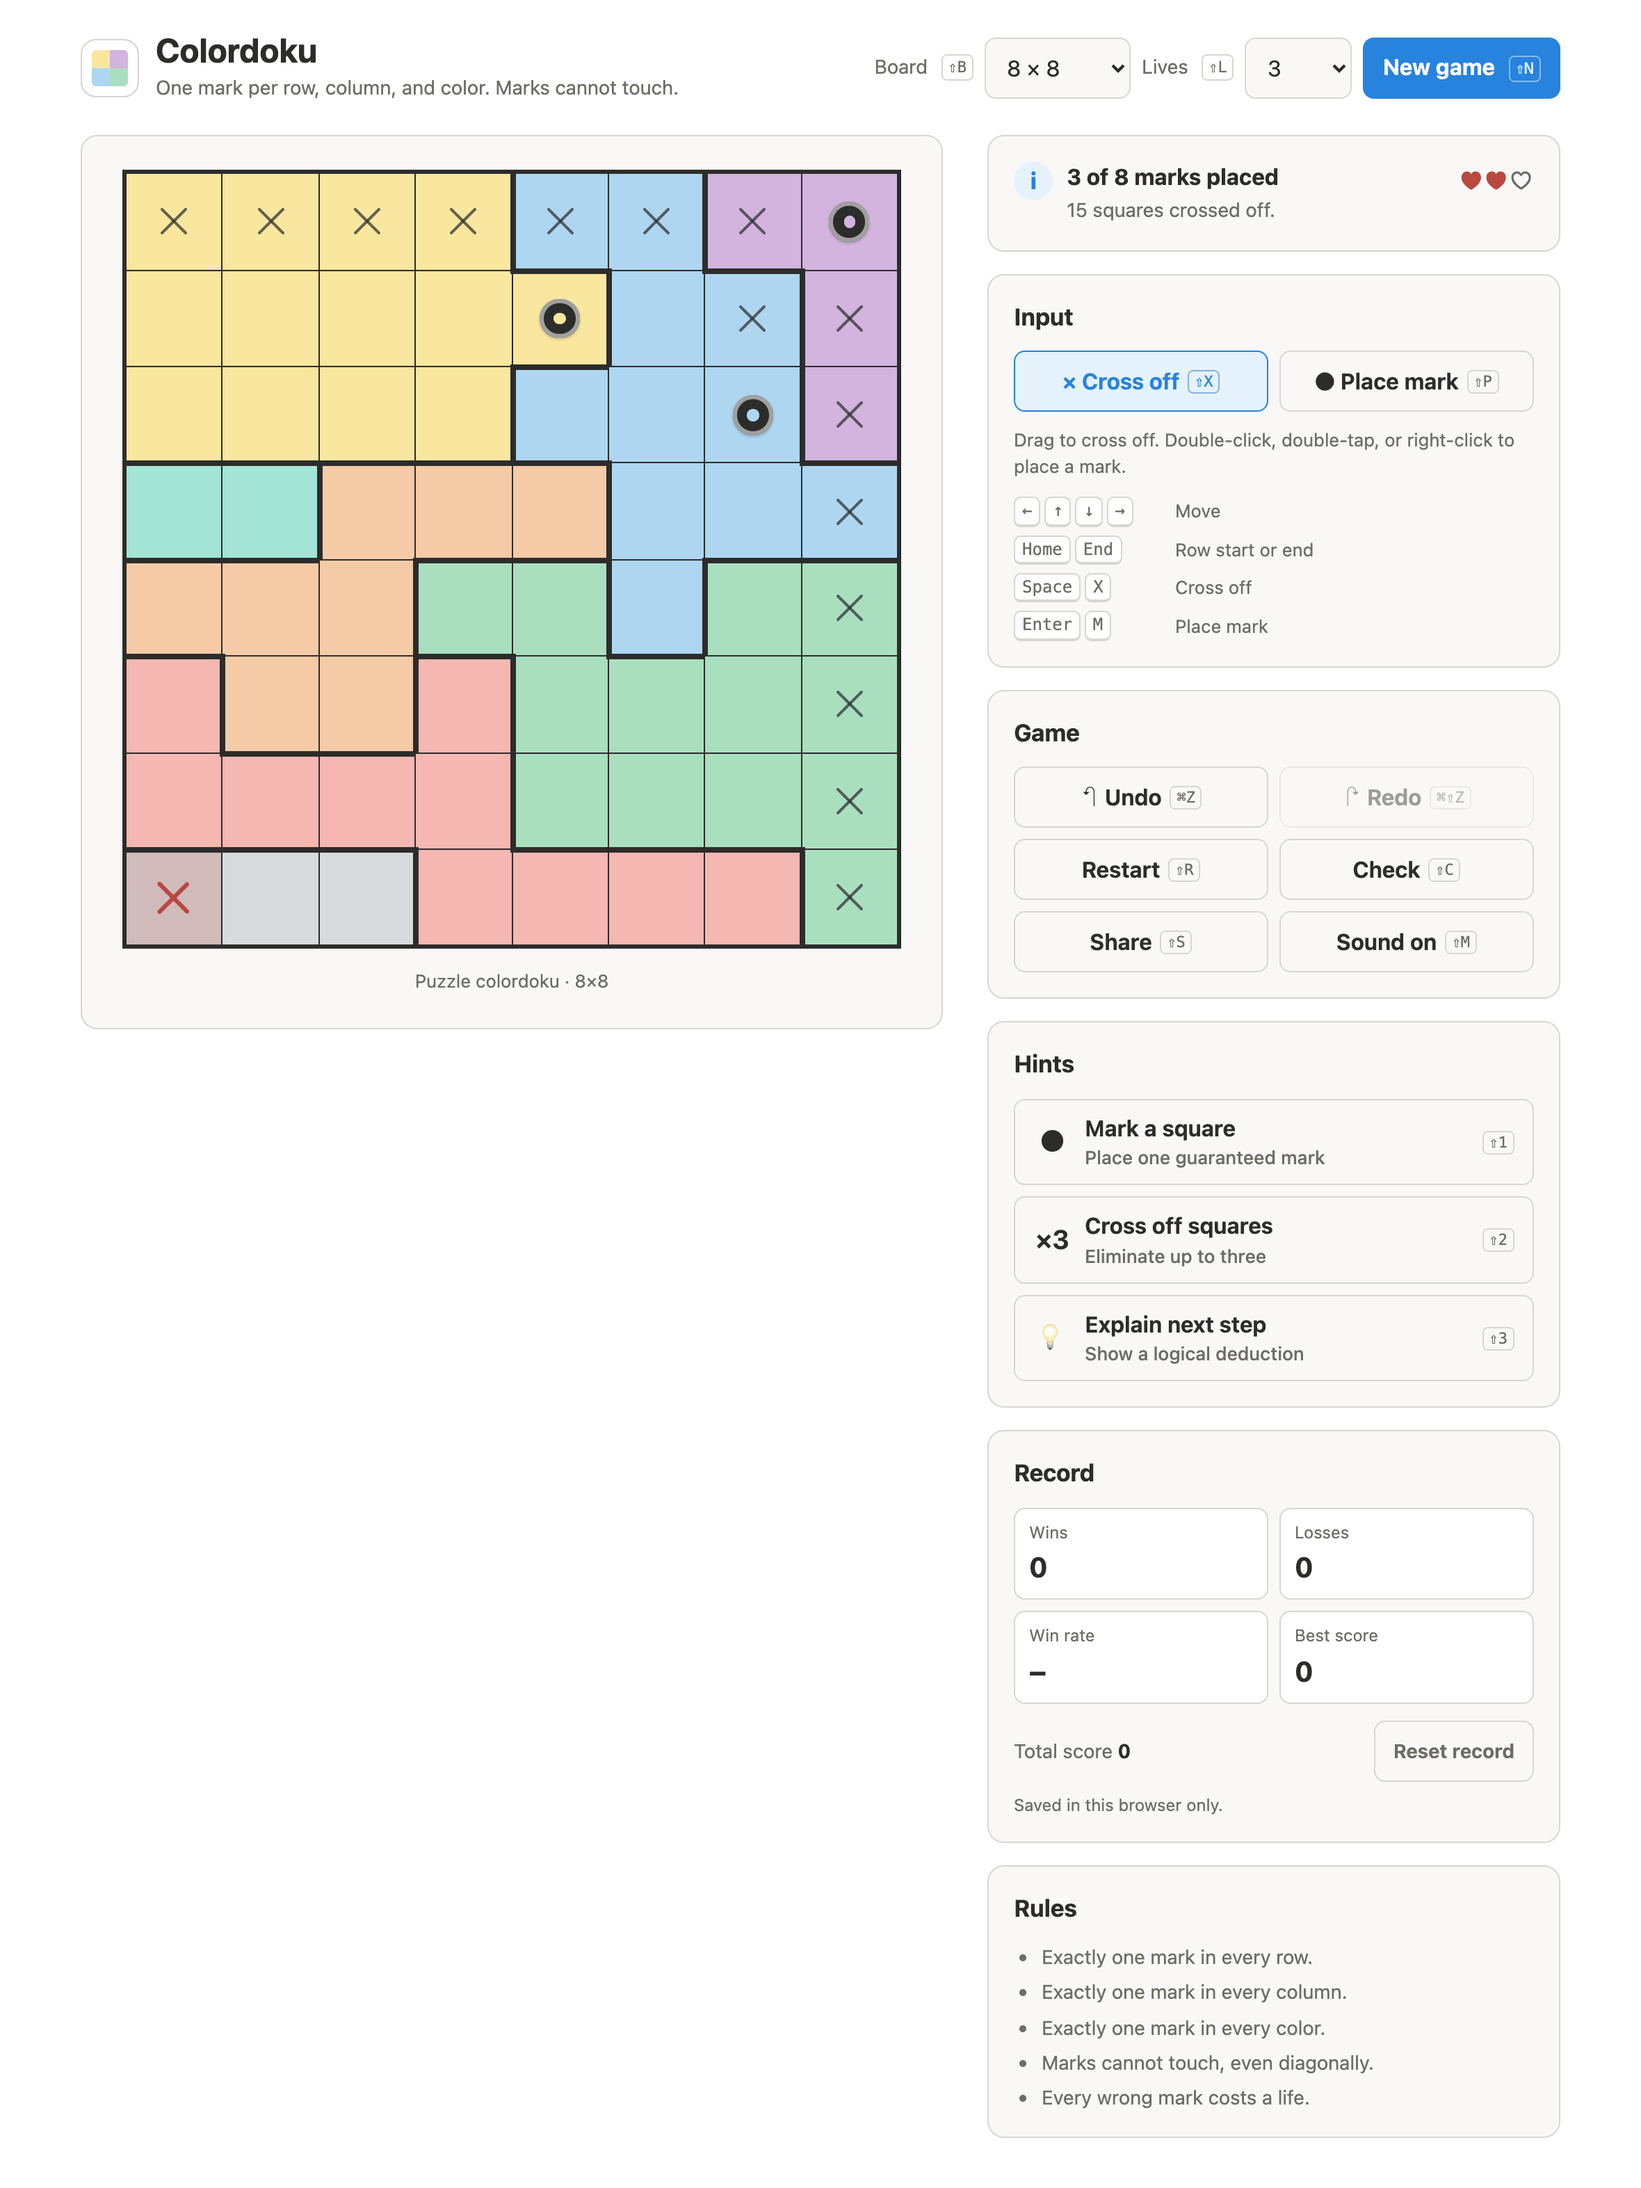
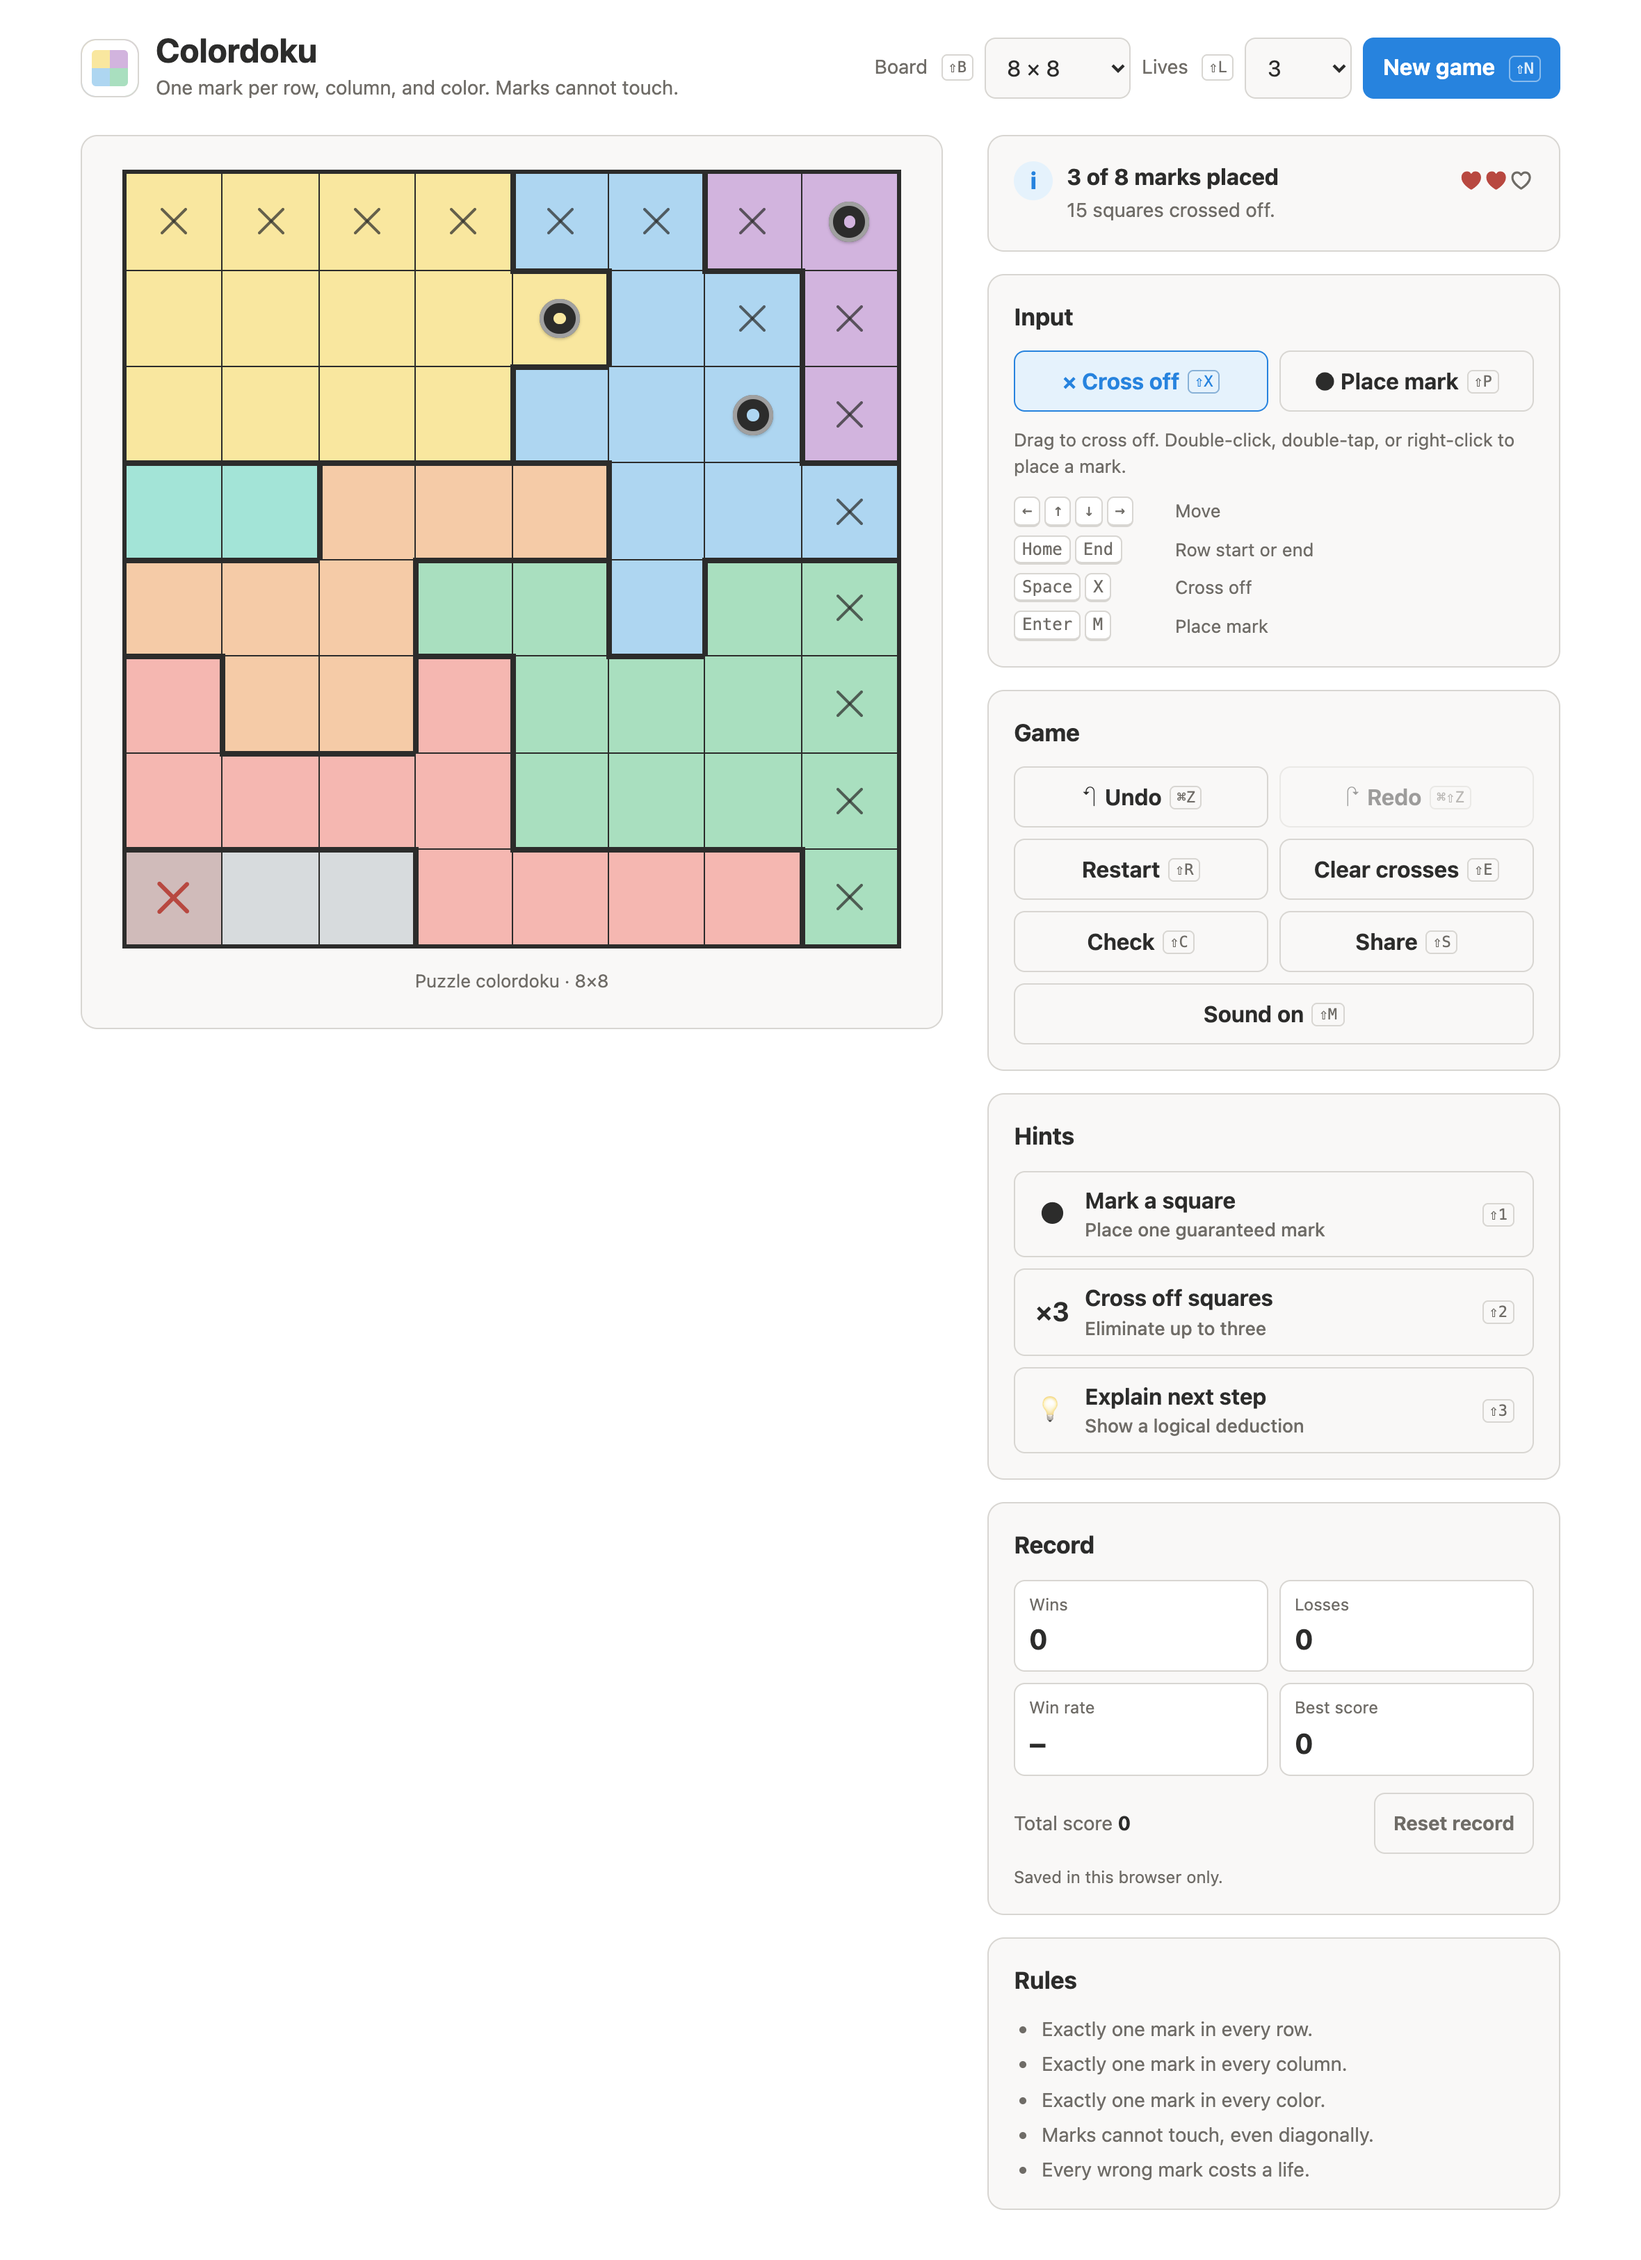
Add Clear crosses to wipe every cross-off and keep marks

diff --git a/site/js/main.js b/site/js/main.js
@@ -12,7 +12,7 @@ import {
   scoreFor,
   startAttempt,
 } from './game/attempt.js';
-import { emptyState, sameState, setCrossed } from './game/game.js';
+import { clearCrosses, emptyState, sameState, setCrossed } from './game/game.js';
 import { generatePuzzle } from './game/generator.js';
 import { getHint } from './game/hints.js';
 import { UndoHistory } from './game/history.js';
@@ -69,6 +69,7 @@ const caption = requireElement('#puzzle-caption', HTMLElement);
 const undoButton = requireElement('#undo', HTMLButtonElement);
 const redoButton = requireElement('#redo', HTMLButtonElement);
 const restartLabel = requireElement('#restart-label', HTMLElement);
+const clearButton = requireElement('#clear-crosses', HTMLButtonElement);
 const soundLabel = requireElement('#sound-label', HTMLElement);
 const modeButtons = /** @type {NodeListOf<HTMLButtonElement>} */ (
   document.querySelectorAll('.mode-button')
@@ -133,6 +134,7 @@ function refresh() {
   });
   undoButton.disabled = locked || !moves.canUndo;
   redoButton.disabled = locked || !moves.canRedo;
+  clearButton.disabled = locked || state.crossed.size === 0;
   restartLabel.textContent = locked ? 'Try again' : 'Restart';
 }
 
@@ -340,6 +342,20 @@ function restart() {
   if (commit(emptyState())) sounds.play('undo');
 }
 
+/** Clears every cross-off as one undo step, keeping marks and mistakes. */
+function clearCrossOffs() {
+  if (!puzzle || attempt.outcome !== 'playing') return;
+  cancelStroke();
+  if (state.crossed.size === 0) {
+    refresh();
+    return;
+  }
+  pendingHint = null;
+  renderHint(null);
+  commit(clearCrosses(state));
+  sounds.play('undo');
+}
+
 /**
  * Generates and shows a puzzle, and puts its size and seed in the address bar.
  *
@@ -426,6 +442,7 @@ const ACTIONS = {
   undo,
   redo,
   restart,
+  clearCrosses: clearCrossOffs,
   check: () => {
     if (puzzle) showToast(checkMessage(puzzle, state, attempt));
   },

diff --git a/site/js/ui/hotkeys.js b/site/js/ui/hotkeys.js
@@ -2,7 +2,7 @@
  * Every keyboard shortcut outside the board, in one table so button labels and key handling can't
  * drift apart. Plain keys belong to the focused board square; Shift+key triggers a control.
  *
- * @typedef {'newGame' | 'cycleSize' | 'cycleLives' | 'crossMode' | 'markMode' | 'undo' | 'redo' | 'restart' | 'check' | 'share' | 'hintMark' | 'hintCross' | 'hintReason' | 'applyHint' | 'dismissHint' | 'toggleSound'} HotkeyId
+ * @typedef {'newGame' | 'cycleSize' | 'cycleLives' | 'crossMode' | 'markMode' | 'undo' | 'redo' | 'restart' | 'clearCrosses' | 'check' | 'share' | 'hintMark' | 'hintCross' | 'hintReason' | 'applyHint' | 'dismissHint' | 'toggleSound'} HotkeyId
  * @typedef {{ key: string, code: string, shiftKey: boolean, ctrlKey: boolean, metaKey: boolean, altKey: boolean }} KeyLike
  */
 
@@ -18,6 +18,7 @@ const SHIFT_HOTKEYS = [
   ['crossMode', 'KeyX'],
   ['markMode', 'KeyP'],
   ['restart', 'KeyR'],
+  ['clearCrosses', 'KeyE'],
   ['check', 'KeyC'],
   ['share', 'KeyS'],
   ['hintMark', 'Digit1'],

diff --git a/test/game.test.js b/test/game.test.js
@@ -1,6 +1,6 @@
 import assert from 'node:assert/strict';
 import { test } from 'node:test';
-import { emptyState, sameState, setCrossed } from '../site/js/game/game.js';
+import { clearCrosses, emptyState, sameState, setCrossed } from '../site/js/game/game.js';
 import { stateOf } from './fixtures.js';
 
 test('setCrossed adds and clears crosses without touching marks or the input', () => {
@@ -34,4 +34,18 @@ test('setCrossed skips the cells it is told to', () => {
     new Set(['0,0']),
   );
   assert.deepEqual([...next.crossed], ['0,1']);
+});
+
+test('clearCrosses removes every cross and keeps every mark', () => {
+  const start = stateOf({
+    crossed: [
+      [0, 0],
+      [2, 3],
+    ],
+    marked: [[0, 1]],
+  });
+  const cleared = clearCrosses(start);
+  assert.equal(cleared.crossed.size, 0);
+  assert.deepEqual([...cleared.marked], ['0,1']);
+  assert.equal(start.crossed.size, 2);
 });

diff --git a/test/hotkeys.test.js b/test/hotkeys.test.js
@@ -25,6 +25,7 @@ const SHIFT_HOTKEYS = {
   crossMode: 'KeyX',
   markMode: 'KeyP',
   restart: 'KeyR',
+  clearCrosses: 'KeyE',
   check: 'KeyC',
   share: 'KeyS',
   hintMark: 'Digit1',
@@ -78,6 +79,7 @@ test('labels follow the platform', () => {
 test('aria-keyshortcuts values use ARIA key names', () => {
   assert.equal(ariaKeyshortcuts('newGame'), 'Shift+N');
   assert.equal(ariaKeyshortcuts('hintCross'), 'Shift+2');
+  assert.equal(ariaKeyshortcuts('clearCrosses'), 'Shift+E');
   assert.equal(ariaKeyshortcuts('undo'), 'Meta+Z Control+Z');
   assert.equal(ariaKeyshortcuts('redo'), 'Meta+Shift+Z Control+Shift+Z Control+Y');
   assert.equal(ariaKeyshortcuts('dismissHint'), 'Escape');

diff --git a/site/index.html b/site/index.html
@@ -152,6 +152,9 @@
                 <span id="restart-label">Restart</span>
                 <kbd class="hotkey" data-hotkey-label="restart"></kbd>
               </button>
+              <button id="clear-crosses" type="button" data-hotkey="clearCrosses" disabled>
+                Clear crosses <kbd class="hotkey" data-hotkey-label="clearCrosses"></kbd>
+              </button>
               <button id="check" type="button" data-hotkey="check">
                 Check <kbd class="hotkey" data-hotkey-label="check"></kbd>
               </button>

diff --git a/site/js/game/game.js b/site/js/game/game.js
@@ -66,3 +66,13 @@ export function setCrossed(state, cells, crossed, skip = new Set()) {
   }
   return next;
 }
+
+/**
+ * Removes every cross-off and keeps every mark.
+ *
+ * @param {BoardState} state
+ * @returns {BoardState}
+ */
+export function clearCrosses(state) {
+  return { crossed: new Set(), marked: new Set(state.marked) };
+}

diff --git a/site/css/panels.css b/site/css/panels.css
@@ -75,6 +75,11 @@
   gap: 8px;
 }
 
+/* Seven Game buttons leave the last one alone on its row, so it spans both columns. */
+.action-grid button:last-child {
+  grid-column: 1 / -1;
+}
+
 .mode-button[aria-pressed='true'] {
   border-color: var(--accent);
   background: var(--accent-soft);

diff --git a/README.md b/README.md
@@ -49,6 +49,7 @@ You start each puzzle with 3 lives (choose 1–5 with the Lives menu). Every wro
 | Cross off many         | Click and drag              | Drag                                    |                                                                                 |
 | Place or remove a mark | Double-click or right-click | Double-tap, or switch to **Place mark** | <kbd>Enter</kbd> or <kbd>M</kbd>                                                |
 | Move between squares   |                             |                                         | Arrow keys, <kbd>Home</kbd>, <kbd>End</kbd>                                     |
+| Clear all cross-offs   | **Clear crosses** button    | **Clear crosses** button                | <kbd>⇧E</kbd>                                                                   |
 | Undo                   | **Undo** button             | **Undo** button                         | <kbd>⌘/Ctrl</kbd> <kbd>Z</kbd>                                                  |
 | Redo                   | **Redo** button             | **Redo** button                         | <kbd>⌘/Ctrl</kbd> <kbd>Shift</kbd> <kbd>Z</kbd> or <kbd>Ctrl</kbd> <kbd>Y</kbd> |
 
@@ -62,7 +63,8 @@ Every button also has a Shift shortcut, shown on the button itself:
 | <kbd>⇧X</kbd> | Cross off mode       | <kbd>⇧1</kbd>  | Hint: mark a square     |
 | <kbd>⇧P</kbd> | Place mark mode      | <kbd>⇧2</kbd>  | Hint: cross off squares |
 | <kbd>⇧R</kbd> | Restart or try again | <kbd>⇧3</kbd>  | Hint: explain next step |
-| <kbd>⇧A</kbd> | Apply the hint       | <kbd>Esc</kbd> | Close the hint          |
+| <kbd>⇧E</kbd> | Clear all cross-offs | <kbd>⇧A</kbd>  | Apply the hint          |
+|               |                      | <kbd>Esc</kbd> | Close the hint          |
 
 ## Features
 
@@ -73,7 +75,8 @@ Every button also has a Shift shortcut, shown on the button itself:
 - Keyboard shortcuts for every control
 - Shareable puzzle links: every puzzle has a seed in its URL, so `?size=8&seed=k3f9x2` rebuilds the same board on any device
 - Three hints: place a guaranteed mark, cross off up to three squares, or explain the next logical step, with the hint's squares highlighted on the board
-- Undo and redo for every move, including Restart
+- Undo and redo for every move, including Restart and Clear crosses
+- Clear crosses wipes every cross-off in one step and keeps your marks
 - A live status that tells you as soon as a cross-off makes the puzzle impossible
 - Light and dark themes that follow your system
 - Keyboard play and screen reader labels for every square
